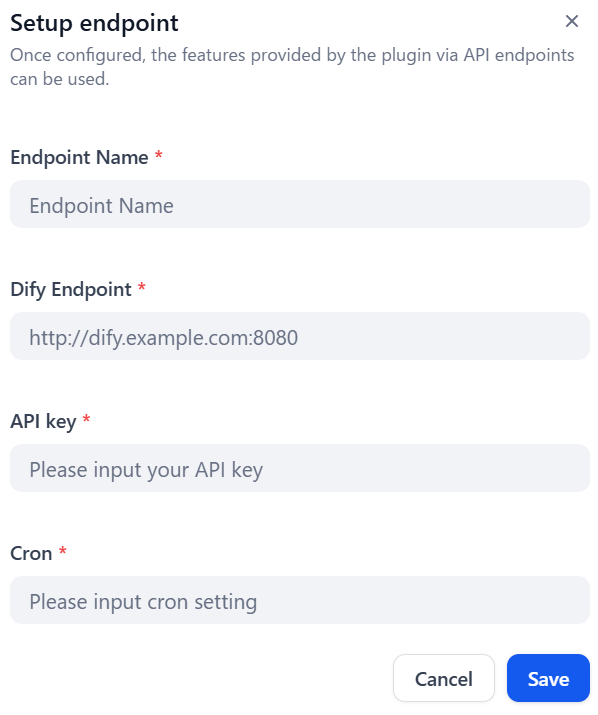
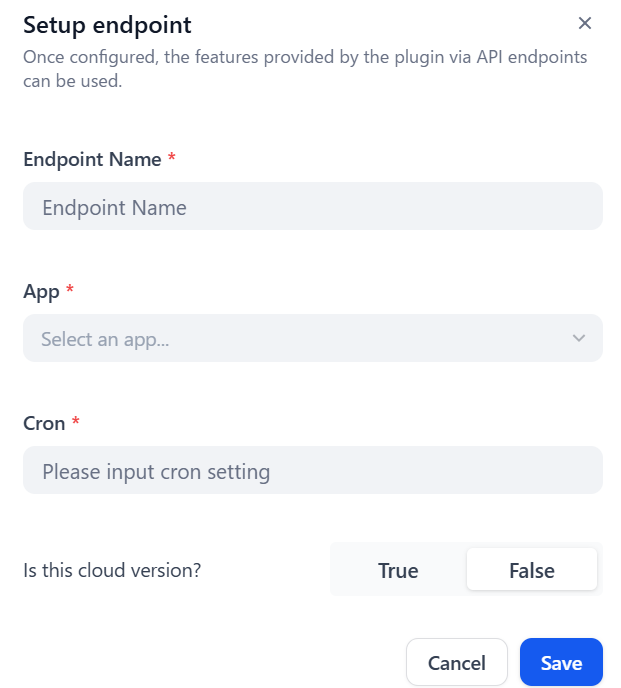
update README.md

diff --git a/README.md b/README.md
@@ -19,9 +19,8 @@ Here are the instructions how to use this Cron plugin.
 
 ### 2. Add an endpoint
 
-- Endpoint Name: Custom name of this endpoint. You can input a custom name here.
-- Dify Endpoint: Please input the URL of Dify endpoint.
-- API key: Please input the API key for a certain workflow.
+- Endpoint Name: Name of this endpoint. You can input a custom name here.
+- App: Workflow or Chatflow to trigger regularly
 - Cron: When this plugin will trigger the workflow. Please see the Cron Format section to make a valid setting.
 
 ![alt text](_assets/endpoint.png)
